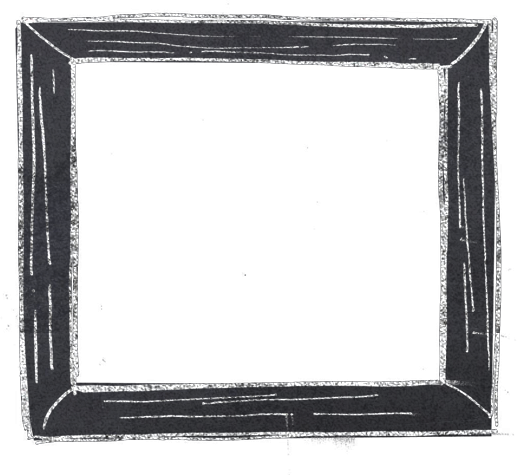
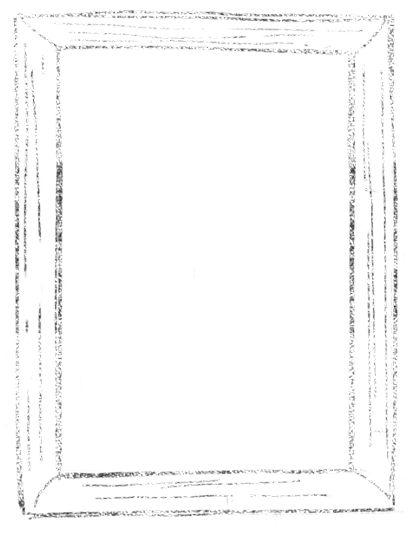
added new hero frame

diff --git a/resources/public/css/style.css b/resources/public/css/style.css
@@ -116,9 +116,9 @@ h2 { font:normal 30px 'zitzregular'; }
 
 .intro { margin:0 0 0 102px; width:360px; }
 
-.photos { position:relative; float:right; width:517px; height:474px; }
-.photos img { position: absolute; }
-.photo { left:50px; top:30px; }
+.photos { position:relative; float:right; width:410px; height:544px; margin:30px 60px 0 0; }
+.photos img { position:absolute; }
+.photo { left:75px; top:73px; width:260px; height:371px; }
 
 .players ul { margin:0; padding:0; }
 .player { position:relative; float:left; padding-bottom:40px; text-align:center; list-style-type:none; }

diff --git a/resources/public/js/script.js b/resources/public/js/script.js
@@ -6,7 +6,7 @@
 	 * TEMPORARY SOLUTION, YEAH MAN!
 	 * @type {Number}
 	 */
-	var DAY_NUMBER = 8;
+	var DAY_NUMBER = 14;
 
 	/**
 	 * Path to photo images
